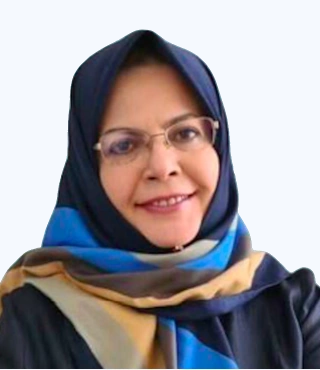
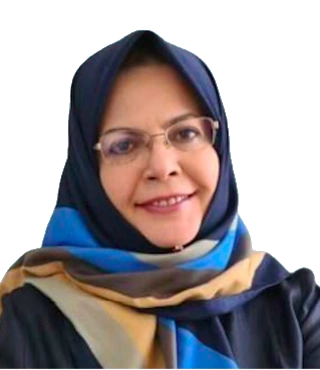
updated

diff --git a/docs/assets/style.css b/docs/assets/style.css
@@ -1400,7 +1400,7 @@ h2 {
   width: 320px;
   height: 370px;
   object-fit: contain;
-  background: var(--blue-pale);
+  background: transparent;
   border-radius: 50% / 44%;
   overflow: hidden;
   clip-path: ellipse(46% 48% at 50% 50%);
